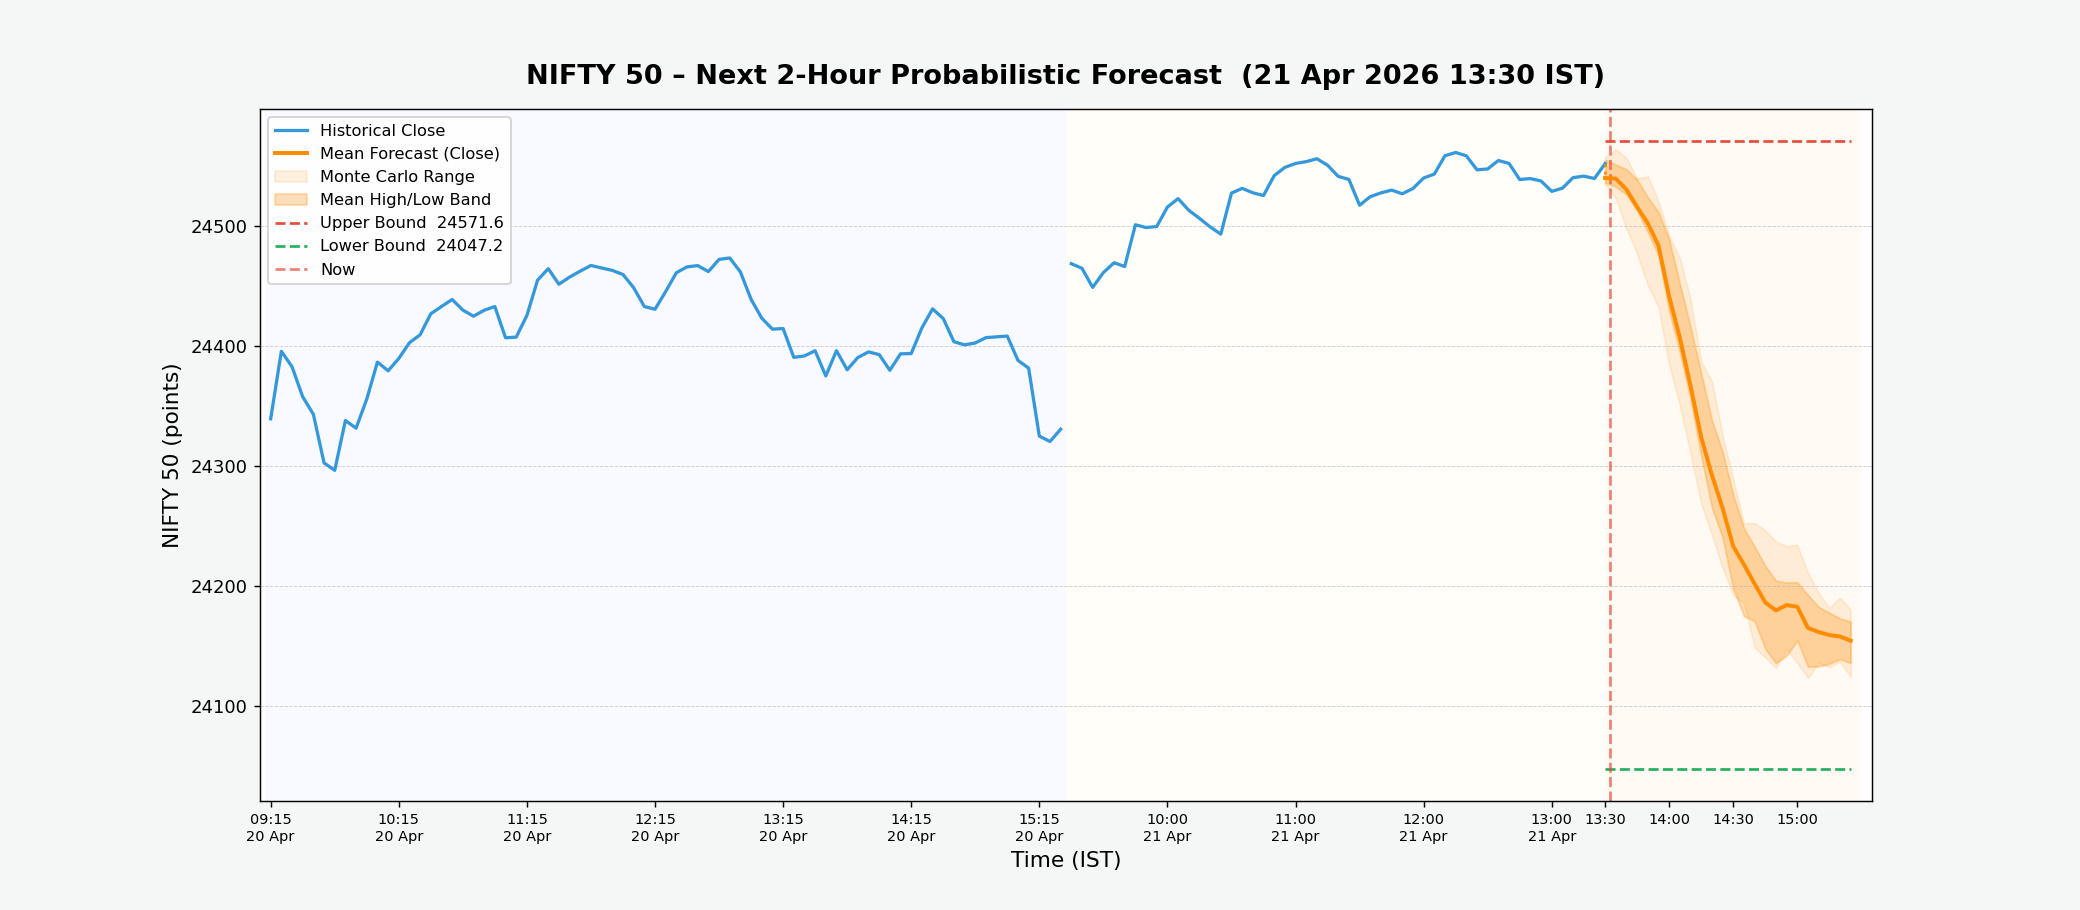
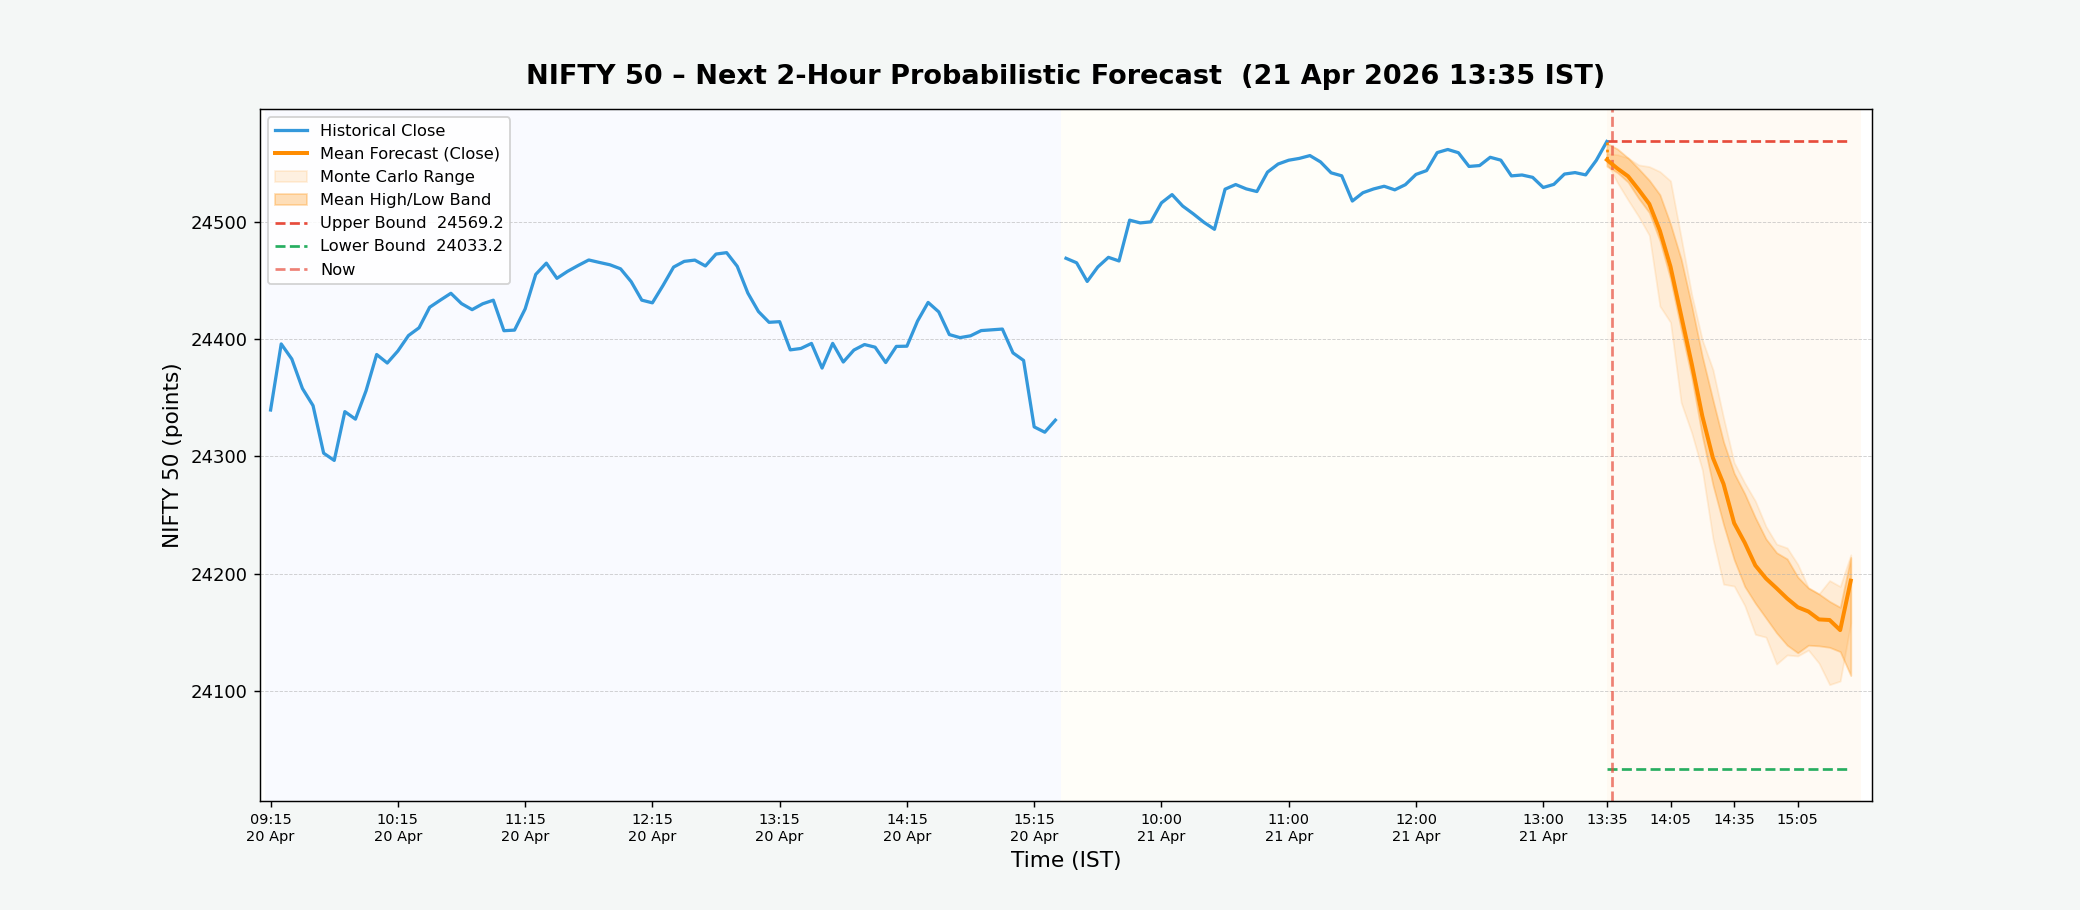
NIFTY forecast update – 2026-04-21 13:35 IST

diff --git a/index.html b/index.html
@@ -24,7 +24,7 @@
 
         <!-- Timestamp bar -->
         <div class="timestamp-bar">
-            <span>Last updated (IST):&nbsp;<strong id="update-time">2026-04-21 13:30:04</strong></span>
+            <span>Last updated (IST):&nbsp;<strong id="update-time">2026-04-21 13:35:04</strong></span>
         </div>
 
         <!-- Metric cards -->
@@ -36,17 +36,17 @@
             </div>
             <div class="metric-card upper">
                 <div class="metric-label">Upper Bound</div>
-                <div class="metric-value" id="upper-bound">24571.6</div>
+                <div class="metric-value" id="upper-bound">24569.2</div>
                 <div class="metric-sub">Max predicted high</div>
             </div>
             <div class="metric-card lower">
                 <div class="metric-label">Lower Bound</div>
-                <div class="metric-value" id="lower-bound">24047.2</div>
+                <div class="metric-value" id="lower-bound">24033.2</div>
                 <div class="metric-sub">Min predicted low</div>
             </div>
             <div class="metric-card range">
                 <div class="metric-label">Predicted Range</div>
-                <div class="metric-value" id="pred-range">524.4 pts</div>
+                <div class="metric-value" id="pred-range">536.0 pts</div>
                 <div class="metric-sub">Upper − Lower spread</div>
             </div>
         </div>
